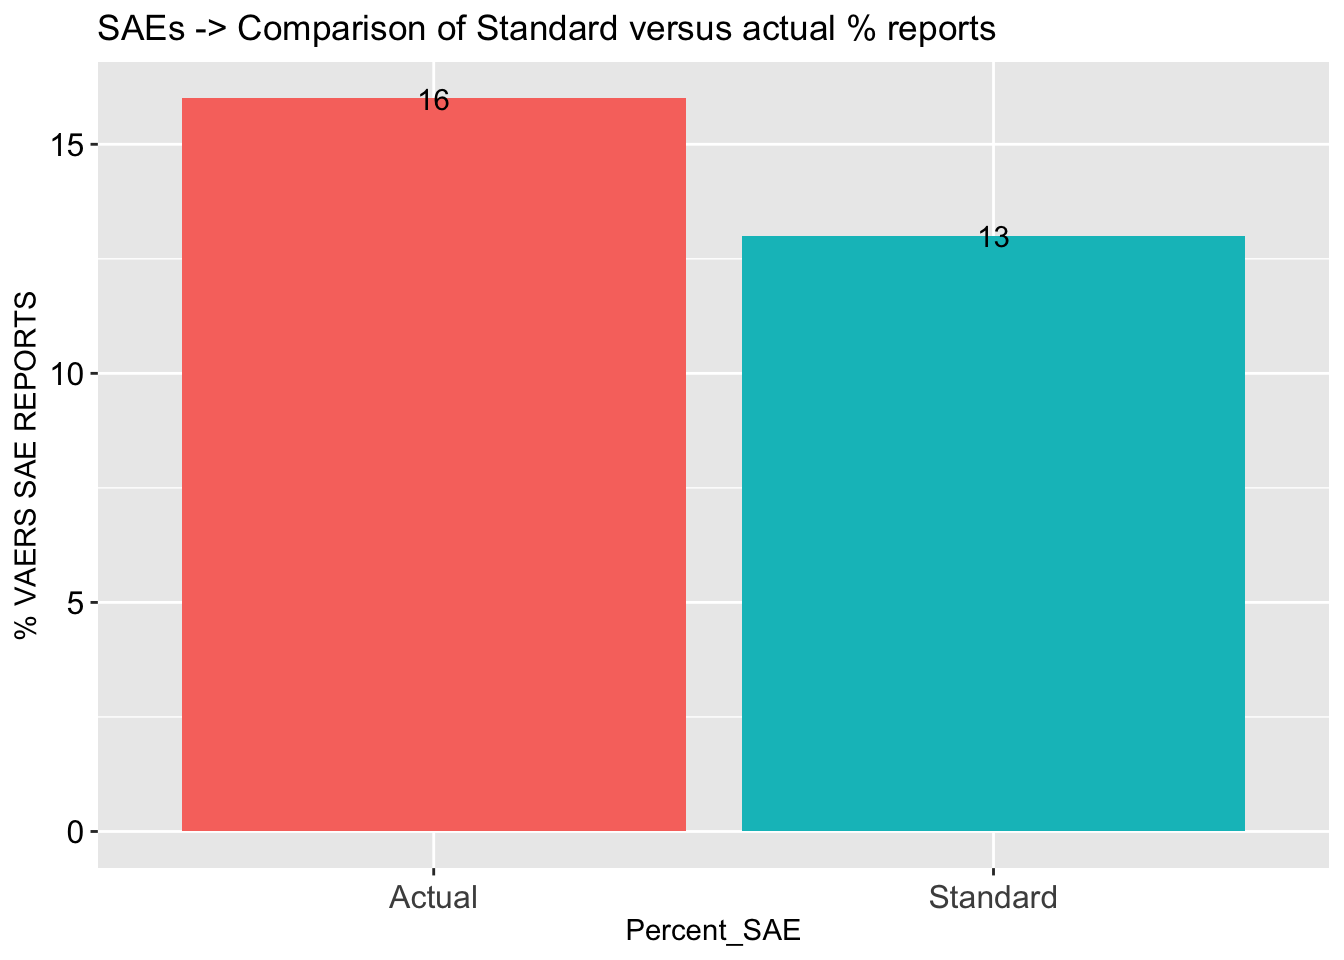
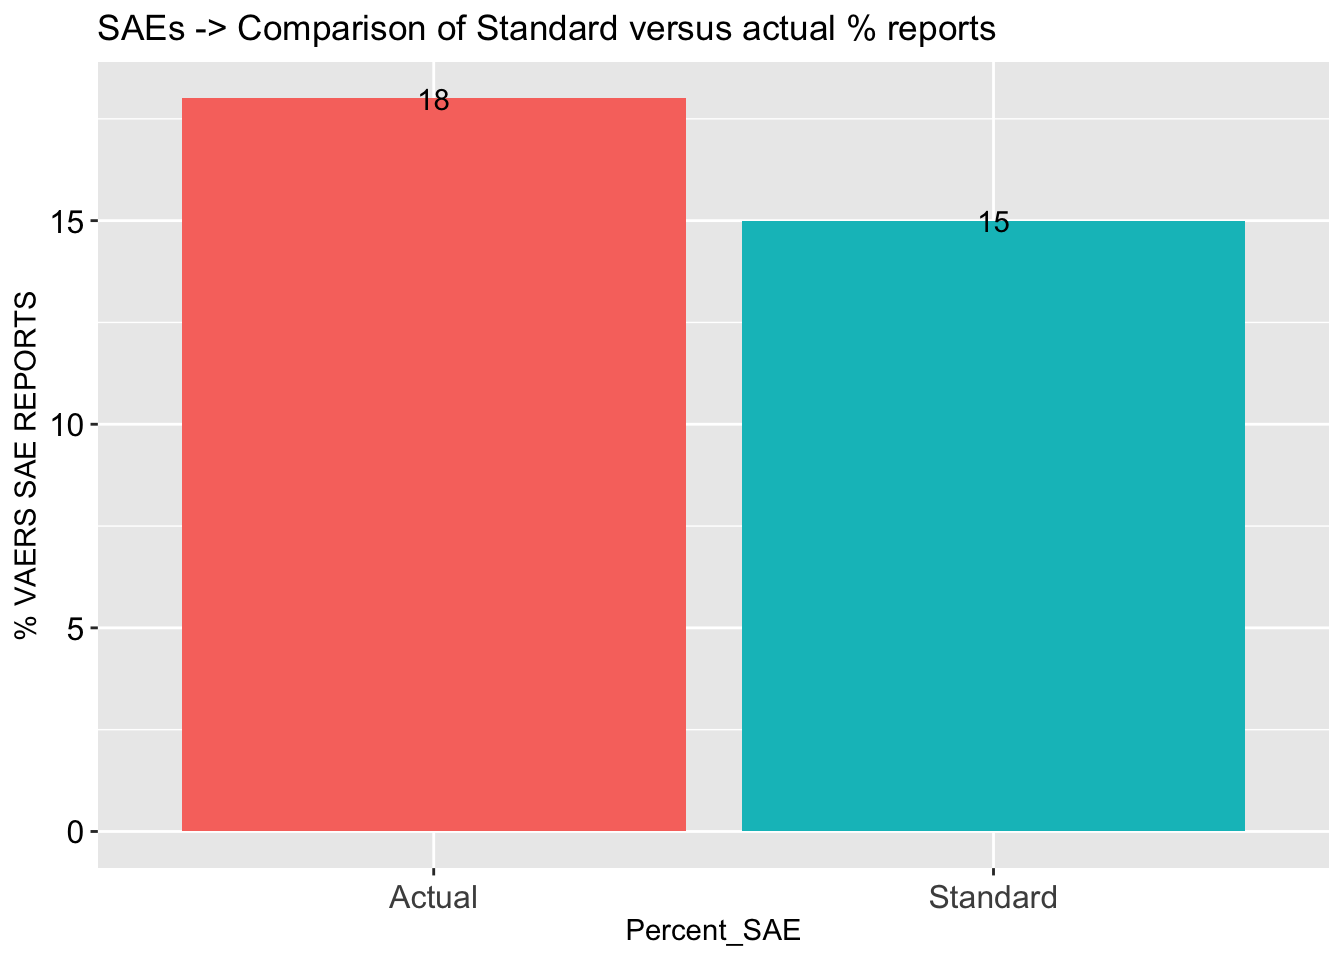
m

diff --git a/content/post/2020-12-01-r-rmarkdown/index.en.html b/content/post/2020-12-01-r-rmarkdown/index.en.html
@@ -1,0 +1,112 @@
+---
+title: "The R Markdown document for VAERS analysis"
+author: "Dr. Jessica Rose"
+date: "2021-05-21"
+output: html_document
+---
+
+<script src="{{< blogdown/postref >}}index.en_files/header-attrs/header-attrs.js"></script>
+<script src="{{< blogdown/postref >}}index.en_files/htmlwidgets/htmlwidgets.js"></script>
+<script src="{{< blogdown/postref >}}index.en_files/plotly-binding/plotly.js"></script>
+<script src="{{< blogdown/postref >}}index.en_files/typedarray/typedarray.min.js"></script>
+<script src="{{< blogdown/postref >}}index.en_files/jquery/jquery.min.js"></script>
+<link href="{{< blogdown/postref >}}index.en_files/crosstalk/css/crosstalk.css" rel="stylesheet" />
+<script src="{{< blogdown/postref >}}index.en_files/crosstalk/js/crosstalk.min.js"></script>
+<link href="{{< blogdown/postref >}}index.en_files/plotly-htmlwidgets-css/plotly-htmlwidgets.css" rel="stylesheet" />
+<script src="{{< blogdown/postref >}}index.en_files/plotly-main/plotly-latest.min.js"></script>
+
+
+<p>This is an R Markdown sheet generated from the VAERS data. I included some code but for the most part, only figures are shown. I decided to show figures pertaining to Death, Spontaneous abortions, Breakthrough COVID-19 infections and Cardiovascular, Neurological and Immunological adverse events.</p>
+<p>I start by coalescing the .csv files downloaded from the VAERS website: <a href="https://vaers.hhs.gov/data/datasets.html" class="uri">https://vaers.hhs.gov/data/datasets.html</a></p>
+<pre><code>## # A tibble: 3 x 3
+## # Groups:   SEX [3]
+##   SEX        n PERC_FEMALE
+##   &lt;chr&gt;  &lt;int&gt;       &lt;dbl&gt;
+## 1 F     203839       71.8 
+## 2 M      72782       25.6 
+## 3 U       7420        2.61</code></pre>
+<pre><code>## # A tibble: 284,041 x 22
+##    VAERS_ID SYMPTOM     STATE AGE_YRS SEX   DIED  DATEDIED   HOSPITAL VAX_DATE  
+##       &lt;dbl&gt; &lt;chr&gt;       &lt;chr&gt;   &lt;dbl&gt; &lt;chr&gt; &lt;chr&gt; &lt;date&gt;     &lt;chr&gt;    &lt;date&gt;    
+##  1   916600 Dysphagia   TX         33 F     &quot;&quot;    NA         &quot;&quot;       2020-12-28
+##  2   916601 Anxiety     CA         73 F     &quot;&quot;    NA         &quot;&quot;       2020-12-31
+##  3   916602 Chest disc… WA         23 F     &quot;&quot;    NA         &quot;&quot;       2020-12-31
+##  4   916603 Dizziness   WA         58 F     &quot;&quot;    NA         &quot;&quot;       2020-12-23
+##  5   916604 Injection … TX         47 F     &quot;&quot;    NA         &quot;&quot;       2020-12-22
+##  6   916605 Chills      TX         40 M     &quot;&quot;    NA         &quot;&quot;       2020-09-25
+##  7   916606 Pharyngeal… NV         44 F     &quot;&quot;    NA         &quot;&quot;       2020-12-29
+##  8   916607 Abdominal … KS         50 M     &quot;&quot;    NA         &quot;&quot;       2020-12-28
+##  9   916608 Diarrhoea   OH         33 M     &quot;&quot;    NA         &quot;&quot;       2020-12-29
+## 10   916609 Vaccinatio… TN         71 F     &quot;&quot;    NA         &quot;&quot;       2020-12-23
+## # … with 284,031 more rows, and 13 more variables: ONSET_DATE &lt;date&gt;,
+## #   TODAYS_DATE &lt;date&gt;, ER_ED_VISIT &lt;chr&gt;, L_THREAT &lt;chr&gt;, DISABLE &lt;chr&gt;,
+## #   BIRTH_DEFECT &lt;chr&gt;, VAX_TYPE &lt;chr&gt;, VAX_MANU &lt;chr&gt;, VAX_LOT &lt;chr&gt;,
+## #   VAX_DOSE_SERIES &lt;chr&gt;, VAX_ROUTE &lt;chr&gt;, VAX_SITE &lt;chr&gt;, VAX_NAME &lt;chr&gt;</code></pre>
+<pre><code>## [1] 51068</code></pre>
+<p>ACTUAL REPORTED SEVERE ADVERSE EVENTS (SAE) COMPARED TO VAERS STANDARD (15%) - IT IS STILL CONSISTENTLY HIGHER AND PEAKED AT 57%
+<img src="Figs/unnamed-chunk-10-1.png" width="672" /></p>
+<p>DISTRIBUTION OF ALL DATA BY AGE GROUP - THE MAJORITY OF INDIVIDUALS ARE BETWEEN THE AGES OF 30 AND 70
+<img src="Figs/unnamed-chunk-16-1.png" width="672" />
+NUMBER OF SPONTANEOUS ABORTIONS</p>
+<pre><code>## [1] 417</code></pre>
+<p>DISTRIBUTION OF SPONTANEOUS ABORTIONS - THIS SUBSET IS GROWING WEEKLY
+<img src="Figs/unnamed-chunk-18-1.png" width="672" /></p>
+<p>THE PLOTS SHOWING OBSERVED VERSUS EXPECTED TRAJECTORIES SHOW CLUSTERING OF DATA AROUND ‘0’ - A LARGER PROPORTION OF REPORTS ARE MADE WITHIN 24 HOURS THAT ONE WOULD NOT EXPECT TO SEE IF THERE WAS NO CAUSALITY</p>
+<p>Plot showing OBSERVED (orange) vs. EXPECTED (yellow) percentages of specific time-frames between Vaccination Date and Miscarriage Date
+<img src="Figs/unnamed-chunk-20-1.png" width="672" />
+HEATMAPS ARE BEAUTIFUL WAYS TO ILLUSTRATE A LOT OF INFORMATION IN A SINGLE FIGURE. THESE HEATMAPS SHOW THE INTERSECTIONS OF INJECTION DATES AND ONSET OF ADVERSE EVENT DATES AS PER SPECIFIC AE GROUP. THE COLOR OF THE INTERSECTION ‘BLOCK’ INDICATES THE NUMBER OF INTERSECTIONS THAT OCCURRED - RED = HIGHEST; BLUE = LOWEST. POINTS LYING ON THE DIAGONAL HAVE A CORRELATION COEFFICIENT WHERE R = 1, INDICATING A 1:1 CORRELATION.</p>
+<p>HEATMAP showing correlation between Vaccine Date and Onset Date for Spontaneous Abortions
+<img src="Figs/unnamed-chunk-21-1.png" width="672" />
+Distribution of all Breakthrough COVID-19 cases by age group
+<img src="Figs/unnamed-chunk-22-1.png" width="672" />
+CUMULATIVE BREAKTHROUGH COVID-19 CASES
+<img src="Figs/unnamed-chunk-23-1.png" width="672" /></p>
+<p>BREAKTHROUGH COVID CASES BY MANUFACTURER</p>
+<div id="htmlwidget-1" style="width:672px;height:480px;" class="plotly html-widget"></div>
+<script type="application/json" data-for="htmlwidget-1">{"x":{"visdat":{"4a051d48aea9":["function () ","plotlyVisDat"]},"cur_data":"4a051d48aea9","attrs":{"4a051d48aea9":{"labels":{},"values":{},"alpha_stroke":1,"sizes":[10,100],"spans":[1,20],"type":"pie"}},"layout":{"margin":{"b":40,"l":60,"t":25,"r":10},"title":"BREAKTHROUGH COVID-19 CASES BY MANUFACTURER","xaxis":{"showgrid":false,"zeroline":false,"showticklabels":false},"yaxis":{"showgrid":false,"zeroline":false,"showticklabels":false},"hovermode":"closest","showlegend":true},"source":"A","config":{"showSendToCloud":false},"data":[{"labels":["JANSSEN","MODERNA","PFIZER\\BIONTECH"],"values":[7.32,19.86,72.37],"type":"pie","marker":{"color":"rgba(31,119,180,1)","line":{"color":"rgba(255,255,255,1)"}},"frame":null}],"highlight":{"on":"plotly_click","persistent":false,"dynamic":false,"selectize":false,"opacityDim":0.2,"selected":{"opacity":1},"debounce":0},"shinyEvents":["plotly_hover","plotly_click","plotly_selected","plotly_relayout","plotly_brushed","plotly_brushing","plotly_clickannotation","plotly_doubleclick","plotly_deselect","plotly_afterplot","plotly_sunburstclick"],"base_url":"https://plot.ly"},"evals":[],"jsHooks":[]}</script>
+<p>THE QUESTION OF DISTRIBUTION BY MANUFACTURER SHOULD BE ANSWERED IN ORDER TO ASSESS WHETHER OR NOT PFIZER IS ACTUALLY MORE HIGHLY ASSOCIATED WITH BREAKTHROUGH INFECTIONS - THE PRODUCTS ARE EQUALLY DISTRIBUTED THROUGHOUT THE U.S. POPULATION SO IT APPEARS AS THOUGH PFIZER IS MORE HIGHLY ASSOCIATED WITH BREAKTHROUGH INFECTIONS</p>
+<p>Pie chart for distribution of vax manu data in US population (U.S. COVID-19 Vaccine Delivered by Vaccine Type<br />
+Date generated: CDC | Data as of: May 4, 2021 6:00am ET. Posted: Tuesday, May 25, 2021 6:00 PM ET <a href="https://covid.cdc.gov/covid-data-tracker/#vaccinations" class="uri">https://covid.cdc.gov/covid-data-tracker/#vaccinations</a></p>
+<div id="htmlwidget-2" style="width:672px;height:480px;" class="plotly html-widget"></div>
+<script type="application/json" data-for="htmlwidget-2">{"x":{"visdat":{"4a0578e521b4":["function () ","plotlyVisDat"]},"cur_data":"4a0578e521b4","attrs":{"4a0578e521b4":{"labels":{},"values":{},"alpha_stroke":1,"sizes":[10,100],"spans":[1,20],"type":"pie"}},"layout":{"margin":{"b":40,"l":60,"t":25,"r":10},"title":"FULLY-VAXXED U.S. POPULATION BY MANUFACTURER","xaxis":{"showgrid":false,"zeroline":false,"showticklabels":false},"yaxis":{"showgrid":false,"zeroline":false,"showticklabels":false},"hovermode":"closest","showlegend":true},"source":"A","config":{"showSendToCloud":false},"data":[{"labels":["PFIZER/BIONTECH","MODERNA","JANSSEN"],"values":[51.65,40.53,7.82],"type":"pie","marker":{"color":"rgba(31,119,180,1)","line":{"color":"rgba(255,255,255,1)"}},"frame":null}],"highlight":{"on":"plotly_click","persistent":false,"dynamic":false,"selectize":false,"opacityDim":0.2,"selected":{"opacity":1},"debounce":0},"shinyEvents":["plotly_hover","plotly_click","plotly_selected","plotly_relayout","plotly_brushed","plotly_brushing","plotly_clickannotation","plotly_doubleclick","plotly_deselect","plotly_afterplot","plotly_sunburstclick"],"base_url":"https://plot.ly"},"evals":[],"jsHooks":[]}</script>
+<p>BREAKTHROUGH COVID-19 CASES WHO DIED</p>
+<div id="htmlwidget-3" style="width:672px;height:480px;" class="plotly html-widget"></div>
+<script type="application/json" data-for="htmlwidget-3">{"x":{"visdat":{"4a055fe3d5b2":["function () ","plotlyVisDat"]},"cur_data":"4a055fe3d5b2","attrs":{"4a055fe3d5b2":{"labels":{},"values":{},"alpha_stroke":1,"sizes":[10,100],"spans":[1,20],"type":"pie"}},"layout":{"margin":{"b":40,"l":60,"t":25,"r":10},"title":"BREAKTHROUGH COVID-19 CASES resulting in death BY MANUFACTURER","xaxis":{"showgrid":false,"zeroline":false,"showticklabels":false},"yaxis":{"showgrid":false,"zeroline":false,"showticklabels":false},"hovermode":"closest","showlegend":true},"source":"A","config":{"showSendToCloud":false},"data":[{"labels":["JANSSEN","MODERNA","PFIZER\\BIONTECH"],"values":[0.33,1.9,2.16],"type":"pie","marker":{"color":"rgba(31,119,180,1)","line":{"color":"rgba(255,255,255,1)"}},"frame":null}],"highlight":{"on":"plotly_click","persistent":false,"dynamic":false,"selectize":false,"opacityDim":0.2,"selected":{"opacity":1},"debounce":0},"shinyEvents":["plotly_hover","plotly_click","plotly_selected","plotly_relayout","plotly_brushed","plotly_brushing","plotly_clickannotation","plotly_doubleclick","plotly_deselect","plotly_afterplot","plotly_sunburstclick"],"base_url":"https://plot.ly"},"evals":[],"jsHooks":[]}</script>
+<p>BUT THANKFULLY, DEATH IS NOT EVENLY DISTRIBUTED BETWEEN MANUFACTURERS</p>
+<p>BREAKTHROUGH COVID-19 CASES WHO DIED BY AGE</p>
+<div id="htmlwidget-4" style="width:672px;height:480px;" class="plotly html-widget"></div>
+<script type="application/json" data-for="htmlwidget-4">{"x":{"visdat":{"4a0526663560":["function () ","plotlyVisDat"]},"cur_data":"4a0526663560","attrs":{"4a0526663560":{"labels":{},"values":{},"alpha_stroke":1,"sizes":[10,100],"spans":[1,20],"type":"pie"}},"layout":{"margin":{"b":40,"l":60,"t":25,"r":10},"title":"BREAKTHROUGH COVID-19 CASES RESULTING IN DEATH BY AGE GROUP","xaxis":{"showgrid":false,"zeroline":false,"showticklabels":false},"yaxis":{"showgrid":false,"zeroline":false,"showticklabels":false},"hovermode":"closest","showlegend":true},"source":"A","config":{"showSendToCloud":false},"data":[{"labels":["B. 10-20","D. 30-40","E. 40-50","F. 50-60","G. 60-70","H. 70-80","I. 80-90","J. 90-100","K. 100-110"],"values":[0.03,0.06,0.16,0.48,0.76,1.59,2.19,0.86,0.13],"type":"pie","marker":{"color":"rgba(31,119,180,1)","line":{"color":"rgba(255,255,255,1)"}},"frame":null}],"highlight":{"on":"plotly_click","persistent":false,"dynamic":false,"selectize":false,"opacityDim":0.2,"selected":{"opacity":1},"debounce":0},"shinyEvents":["plotly_hover","plotly_click","plotly_selected","plotly_relayout","plotly_brushed","plotly_brushing","plotly_clickannotation","plotly_doubleclick","plotly_deselect","plotly_afterplot","plotly_sunburstclick"],"base_url":"https://plot.ly"},"evals":[],"jsHooks":[]}</script>
+<p>Plot showing OBSERVED (orange) vs. EXPECTED (yellow) percentages of specific time-frames between Vaccination Date and Death Date
+<img src="Figs/unnamed-chunk-34-1.png" width="672" /><img src="Figs/unnamed-chunk-34-2.png" width="672" /><img src="Figs/unnamed-chunk-34-3.png" width="672" />
+HEATMAP showing correlation between Vaccine Date and Onset Date for Deaths
+<img src="Figs/unnamed-chunk-35-1.png" width="672" />
+Plot showing OBSERVED (orange) vs. EXPECTED (yellow) percentages of specific time-frames between Vaccination Date and Onset Date of Cardiovascular Adverse Event</p>
+<p><img src="Figs/unnamed-chunk-37-1.png" width="672" /><img src="Figs/unnamed-chunk-37-2.png" width="672" />
+HEATMAP showing correlation between Vaccine Date and Onset Date for Cardiovascular Adverse Events
+<img src="Figs/unnamed-chunk-38-1.png" width="672" />
+Plot showing OBSERVED (orange) vs. EXPECTED (yellow) percentages of specific time-frames between Vaccination Date and Onset Date of Neurological Adverse Event</p>
+<p><img src="Figs/unnamed-chunk-40-1.png" width="672" /><img src="Figs/unnamed-chunk-40-2.png" width="672" />
+HEATMAP showing correlation between Vaccine Date and Onset Date for Neurological Adverse Events
+<img src="Figs/unnamed-chunk-41-1.png" width="672" />
+Plot showing OBSERVED (orange) vs. EXPECTED (yellow) percentages of specific time-frames between Vaccination Date and Onset Date of Immunological Adverse Event</p>
+<p><img src="Figs/unnamed-chunk-43-1.png" width="672" /><img src="Figs/unnamed-chunk-43-2.png" width="672" />
+HEATMAP showing correlation between Vaccine Date and Onset Date for Immunological Adverse Events
+<img src="Figs/unnamed-chunk-44-1.png" width="672" /></p>
+<p>Histograms to show distributions by age group in Death, Hospital, ER, CV, Neuro and Immuno AE groups
+<img src="Figs/unnamed-chunk-46-1.png" width="672" />
+<img src="Figs/unnamed-chunk-47-1.png" width="672" />
+<img src="Figs/unnamed-chunk-48-1.png" width="672" />
+<img src="Figs/unnamed-chunk-49-1.png" width="672" /></p>
+<p>VAERS ID COUNTS NORMALIZED TO U.S. POPULATION
+<img src="Figs/unnamed-chunk-58-1.png" width="672" />
+CUMULATIVE NUMBER OF ADVERSE EVENTS
+<img src="Figs/unnamed-chunk-59-1.png" width="672" />
+CUMULATIVE NUMBER OF ADVERSE EVENTS AS PER AE GROUP
+<img src="Figs/unnamed-chunk-60-1.png" width="672" />
+CUMULATIVE NUMBER OF VAERS IDS AS PER AE GROUP PER MILLION FULLY VAXXED (FV)
+<img src="Figs/unnamed-chunk-61-1.png" width="672" />
+THE FOLLOWING IS A NEW ADVERSE EVENT GROUP THAT I CREATED BY WRITING A FUNCTION THAT PULLS OUT AES BY KEYWORD. THIS NEW AE GROUP INCLUDED FEMALE REPRODUCTIVE ISSUES THAT OCCURRED IN WOMEN POST-INJECTION.</p>
+<pre><code>## [1] 1421</code></pre>
+<p><img src="Figs/unnamed-chunk-68-1.png" width="672" /></p>
+<p><img src="Figs/unnamed-chunk-70-1.png" width="672" /><img src="Figs/unnamed-chunk-70-2.png" width="672" /></p>
+<p><img src="Figs/unnamed-chunk-72-1.png" width="672" /></p>
